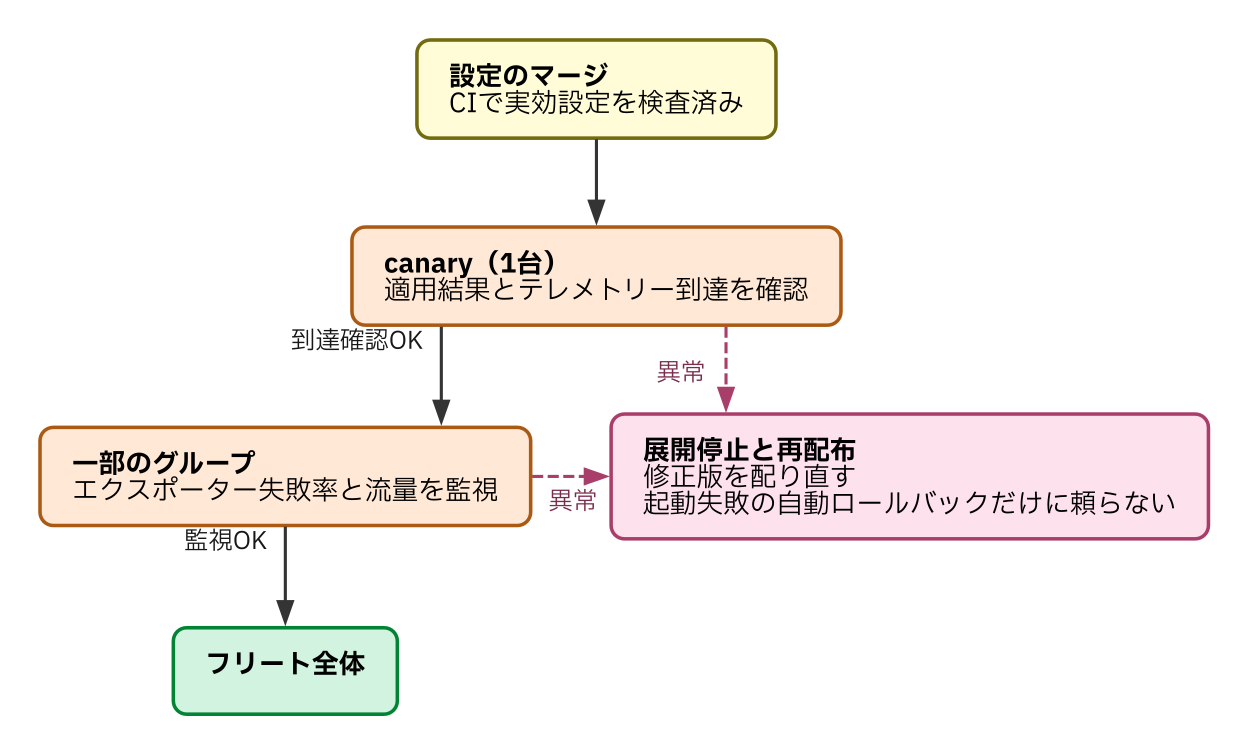
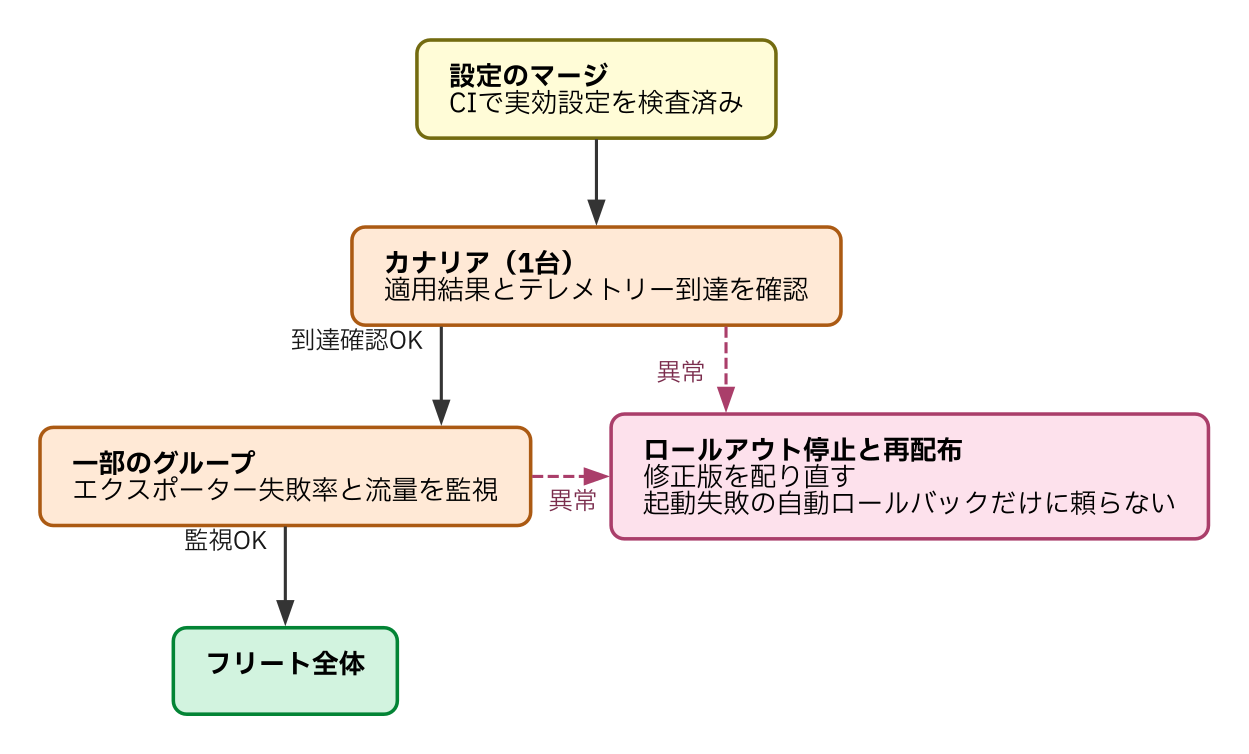
style(otel-platform): 5章レビューの指摘と手動修正の方針を全章へ当てる
レビュー4件:
- 「適用状態はデプロイツールのログから調べます」が主体と手段で噛み合って
  いなかった。Collector自身に問い合わせられない点を明示する形に書き換えた
- Supervisor方式のopampextensionが、Supervisorに必要だと読めていた。
  Collector側に入れるが役割が変わる（Supervisorとの通信に使う）と補った。
  upstream v0.159.0 の opampsupervisor README で裏を取った
- ブートストラップ失敗の記述が唐突な過去形だった。一般の挙動は現在形にし、
  確認した事実は別の文に分けた
- 「設定の管理にはGitOpsを、配布にはOpAMPを使います」が唐突だったので、
  設定を管理する場所が2つになる、と受けてから説明する形にした

手動修正の方針を全章へ広げた:
- stability/安定性 -> 安定度（10件）。YAMLキーとmetadata.yamlのキー名を
  指す3件は英語のまま残した
- 段階展開 -> 段階的なロールアウト、canary -> カナリア。図のラベルも直した
  （ノード識別子は英語のまま）。図の「展開停止」も「ロールアウト停止」に
- 手動修正のtypo「ロー武アウト」を直した

Changed region(s): [[0.4996, 0.5796, 0.7806, 0.6101], [0.3122, 0.3355, 0.4684, 0.366]]

diff --git a/books/observability-platform-with-otel/80-reference_implementation.md b/books/observability-platform-with-otel/80-reference_implementation.md
@@ -86,7 +86,7 @@ $ ./registry/weaver.sh generate
 
 checkは、公式semconvへの依存をGit URLで解決して約3秒で成功しました。違反を検出できることも確認します。`com.example.` 以外の名前空間として `myteam.custom.flag` を定義すると、checkはRegoポリシーの `internal_namespace_only` violationで失敗しました。この定義を削除すると成功します。generateは `sdk/semconv/semconv.go` を生成し、`com.example.delivery.id` を `ComExampleDeliveryId` 定数に変換しました。生成結果はコミット済みのファイルと一致し、差分は出ません。CIはこの差分の有無を検査します。
 
-実際のテレメトリーはlive-checkで検査します。live-checkをOTLPの受信口として起動し、テレメトリーを生成する公式のテストツールtelemetrygenから、レジストリにない属性を含むスパンを送りました。`myteam.rogue.attr` はviolationとして報告され、`com.example.delivery.id` はviolationになりませんでした。ただし、`com.example.delivery.id` にはstabilityがdevelopmentであるという改善提案が付きます。
+実際のテレメトリーはlive-checkで検査します。live-checkをOTLPの受信口として起動し、テレメトリーを生成する公式のテストツールtelemetrygenから、レジストリにない属性を含むスパンを送りました。`myteam.rogue.attr` はviolationとして報告され、`com.example.delivery.id` はviolationになりませんでした。ただし、`com.example.delivery.id` には安定度がdevelopmentであるという改善提案が付きます。
 
 live-checkをコンテナで動かす場合は、リスンアドレスとポートを明示します。測定した際は、指定なしで起動したところコンテナ外から送ったテレメトリーが届かず、検査対象が0件のまま終了しました。`registry/weaver.sh` では `--otlp-grpc-address 0.0.0.0 --otlp-grpc-port 4317` を指定して解決しています。ただしv0.25.1のデフォルト値はこの指定と同じ `0.0.0.0:4317` なので、0件になった原因はデフォルトのリスンアドレスではありません。ポート公開の状態や、デフォルトで10秒の無通信タイムアウトが関わった可能性があり、原因は特定していません。なお、v0.26.0でデフォルトのリスンアドレスは `127.0.0.1` に変更されたため、この版以降はコンテナで動かすときに明示指定が必要になります。
 
@@ -104,7 +104,7 @@ Supervisor側でも、`automatic_config_rollback` を有効にしていたにも
 
 filterで全スパンをdropする設定は起動に成功し、ステータスもAPPLIEDかつhealthyのままでした。50リクエストを送ってもTempoへ到達したトレースは0件で、ロールバックも発生しません。正常な設定を再配布すると復旧し、25リクエストから6トレースが到達しました。
 
-この測定では、自動ロールバックだけでフリートを保護できませんでした。canary、テレメトリー到達の監視、FAILEDになった設定の再送防止、修正版の再配布を組み合わせる必要があります。
+この測定では、自動ロールバックだけでフリートを保護できませんでした。カナリア、テレメトリー到達の監視、FAILEDになった設定の再送防止、修正版の再配布を組み合わせる必要があります。
 
 ## ゼロコード計装を試す
 

diff --git a/books/observability-platform-with-otel/10-sdk_distribution.md b/books/observability-platform-with-otel/10-sdk_distribution.md
@@ -82,7 +82,7 @@ defer func() {
 - 実行環境（Kubernetesやクラウドプロバイダー）のメタデータからリソース属性を自動検出する
 - トレース、メトリクス、ログのプロバイダー（計装のためのインスタンスを返すもの）を構築してグローバルに登録する
 
-ログの組み込みでは、APIの安定性を考慮します。2026年9月時点で、Goのログ関連モジュール（`otel/log` と `otel/sdk/log`）の正式版はv0.22.0のベータであり、stableに達しているのはトレースとメトリクスです[^golog]。安定化に向けたv1.47.0-rc.1も公開されていますが、リリース候補の段階です。各チームがv0のAPIに直接依存すると、破壊的変更のたびに複数のサービスを修正することになります。ディストリビューションだけがv0のAPIに依存すれば、変更への対応箇所を1つに集約できます。
+ログの組み込みでは、APIの安定度を考慮します。2026年9月時点で、Goのログ関連モジュール（`otel/log` と `otel/sdk/log`）の正式版はv0.22.0のベータであり、stableに達しているのはトレースとメトリクスです[^golog]。安定化に向けたv1.47.0-rc.1も公開されていますが、リリース候補の段階です。各チームがv0のAPIに直接依存すると、破壊的変更のたびに複数のサービスを修正することになります。ディストリビューションだけがv0のAPIに依存すれば、変更への対応箇所を1つに集約できます。
 
 [^golog]: opentelemetry-goのモジュール構成とバージョンは[v1.46.0のversions.yaml](https://github.com/open-telemetry/opentelemetry-go/blob/v1.46.0/versions.yaml)で確認できます。mainブランチはリリース候補を含むため、採用する版のタグで確認してください。
 

diff --git a/books/observability-platform-with-otel/99-references.md b/books/observability-platform-with-otel/99-references.md
@@ -2,7 +2,7 @@
 title: "参考リンク"
 ---
 
-本書で参照した一次情報を章別に示します。本文中のstabilityとバージョンは、2026年9月16日に確認した値です。9章の測定条件と、過去のリリース履歴については、記載した当時の版を示しています。利用時には各リンク先で最新の状態を確認してください。
+本書で参照した一次情報を章別に示します。本文中の安定度とバージョンは、2026年9月16日に確認した値です。9章の測定条件と、過去のリリース履歴については、記載した当時の版を示しています。利用時には各リンク先で最新の状態を確認してください。
 
 ## 全体
 
@@ -14,7 +14,7 @@ title: "参考リンク"
 ## 2章 SDKディストリビューション
 
 - [Distributions（概念の定義）](https://opentelemetry.io/ja/docs/concepts/distributions/)
-- [opentelemetry-go](https://github.com/open-telemetry/opentelemetry-go) と [versions.yaml（モジュール別のstability）](https://github.com/open-telemetry/opentelemetry-go/blob/main/versions.yaml)
+- [opentelemetry-go](https://github.com/open-telemetry/opentelemetry-go) と [versions.yaml（モジュール別の安定度）](https://github.com/open-telemetry/opentelemetry-go/blob/main/versions.yaml)
 - [仕様のコンプライアンス表（環境変数対応状況）](https://github.com/open-telemetry/opentelemetry-specification/blob/main/spec-compliance-matrix.md)
 - [autoexport](https://pkg.go.dev/go.opentelemetry.io/contrib/exporters/autoexport) と [autoprop](https://pkg.go.dev/go.opentelemetry.io/contrib/propagators/autoprop)
 - [otelconf（declarative configurationのGo実装）](https://pkg.go.dev/go.opentelemetry.io/contrib/otelconf) と [opentelemetry-configuration（設定スキーマ）](https://github.com/open-telemetry/opentelemetry-configuration)

diff --git a/books/observability-platform-with-otel/20-zero_code_instrumentation.md b/books/observability-platform-with-otel/20-zero_code_instrumentation.md
@@ -33,7 +33,7 @@ GoのeBPF計装は、**OBI**（OpenTelemetry eBPF Instrumentation）で開発さ
 
 [^obi]: 2026年8月17日のv0.11.0ではGoのトレースAPIの自動計装が入り、従来 opentelemetry-go-instrumentation が担っていた領域を取り込みつつあります。プロジェクトの2026年の目標はstable 1.0です（[公式ブログ](https://opentelemetry.io/blog/2026/obi-goals/)）。
 
-ただし、eBPFによるGoバイナリの関数レベル計装には制約があります。goroutineとOSスレッドが一対一に対応しないため、リクエストの文脈を追跡しにくくなります。コンパイラの最適化で関数の構造が変わり、コンテキスト伝搬のために実行中のプロセスのメモリへ書き込む操作にも危険が伴います。詳細は別の本「[OpenTelemetry eBPF Instrumentationの舞台裏](https://zenn.dev/ymotongpoo/books/go-ebpf-primer)」で、CPUとメモリの仕組みから説明しています。本書では、GoのeBPF計装には取得できる情報の粒度と安定性に制約があることを前提に、配布方法を考えます。
+ただし、eBPFによるGoバイナリの関数レベル計装には制約があります。goroutineとOSスレッドが一対一に対応しないため、リクエストの文脈を追跡しにくくなります。コンパイラの最適化で関数の構造が変わり、コンテキスト伝搬のために実行中のプロセスのメモリへ書き込む操作にも危険が伴います。詳細は別の本「[OpenTelemetry eBPF Instrumentationの舞台裏](https://zenn.dev/ymotongpoo/books/go-ebpf-primer)」で、CPUとメモリの仕組みから説明しています。本書では、GoのeBPF計装には取得できる情報の粒度と安定度に制約があることを前提に、配布方法を考えます。
 
 ## コンパイル時計装
 

diff --git a/books/observability-platform-with-otel/00-introduction.md b/books/observability-platform-with-otel/00-introduction.md
@@ -103,5 +103,5 @@ AIエージェントを開発と運用へ組み込むプラットフォームで
 この4つのうち最初の1つが崩れる環境、つまり単一チームがすべてのサービスを持つ場合は、本書の多くの仕組みが過剰になります。設定を1箇所で管理すれば足ります。
 
 :::message
-本書の記述は2026年9月16日時点の情報に基づきます。OpenTelemetryの構成要素には安定性の段階（stable、release candidate、beta、alpha、development）が明示されているため、本文でも確認時点のstabilityを示します。動作確認にはOSSのGrafanaスタック（Grafana、Tempo、Loki、Mimir）を使います。計装からOTLP送信までの設計は特定のバックエンドに依存しませんが、保存後の検索、シグナル間の相関、AIエージェントからの検索方法はバックエンドごとに異なります。バックエンド固有の箇所は本文で明記します。
+本書の記述は2026年9月16日時点の情報に基づきます。OpenTelemetryの構成要素には安定度の段階（stable、release candidate、beta、alpha、development）が明示されているため、本文でも確認時点の安定度を示します。動作確認にはOSSのGrafanaスタック（Grafana、Tempo、Loki、Mimir）を使います。計装からOTLP送信までの設計は特定のバックエンドに依存しませんが、保存後の検索、シグナル間の相関、AIエージェントからの検索方法はバックエンドごとに異なります。バックエンド固有の箇所は本文で明記します。
 :::
